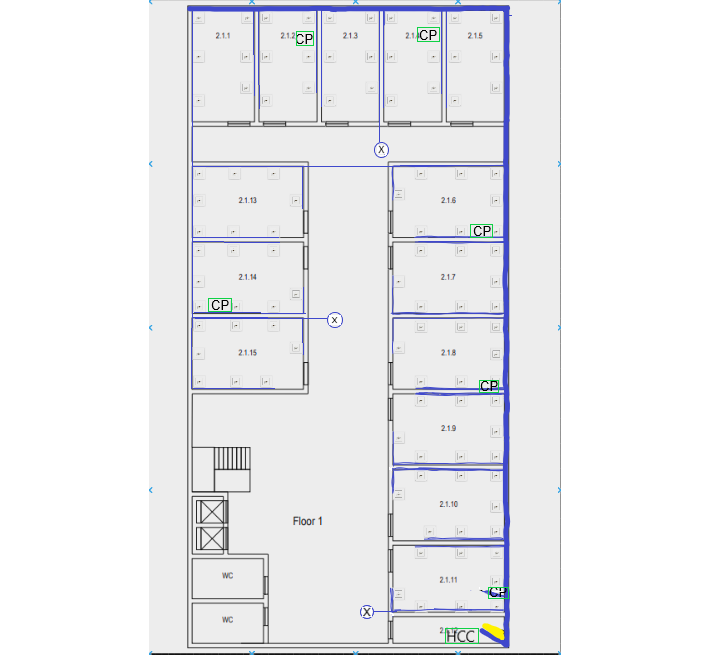
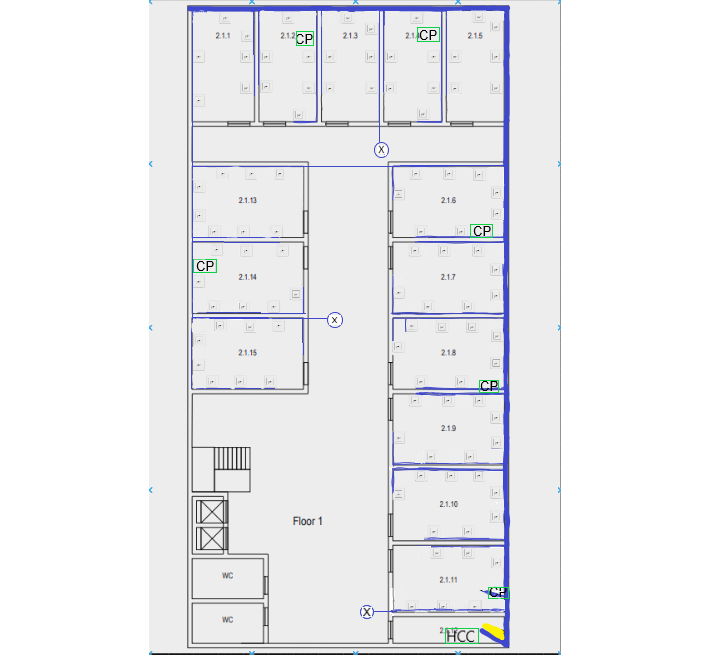
Sprint1

diff --git a/doc/sprint1/1220631/README.md b/doc/sprint1/1220631/README.md
@@ -1,0 +1,325 @@
+# RCOMP 2023-2024 Project - Sprint 1 - Member 1220631 Folder
+
+Within the subject of Redes de Computadores (RCOMP) each group member got a building to work in. In this report, let's work on the cable structured of the Building 2.
+
+## Standards
+
+### Acess Point
+
+In order to provide a WI-FI network on every floor, we have decided to implement **Access Points** that individually cover **30 meters diameter**.
+
+### Cables
+
+As defined by the team in the Planning section:
+
+- Copper cables will be **Category 7 (CAT7) Copper Cables**.
+- Fiber cables will be **Monomode Fiber Cables**.
+
+The maximum distance of the Copper cables is **90** meters.
+
+### Network Outlets
+
+For each **10** square meters there should be installed **2** Network Outlets. The distance should not exceed **3** meters.
+
+### Patch Panels
+
+Since all connectors and patch panels should meet the cable specifications and we decided to use CAT7 Cables, all of them are also **CAT7**.
+Fiber patch panels to Monomode Optical Fiber should be compatible as well.
+
+### Cross-Connected
+
+Cables connecting an **Intermediate Cross-Connect (ICC)** to a **Horizontal Cross-Connect (HCC)** are limited to **500 meters** long, and cables connecting the **Main Cross-Connect (MCC)** to an **ICC** are limited to **1500 meters** long.
+
+### Copper Patch-Cords
+
+Patch cords go from **0.5 to 5 meters** long. They will be provided to end-users to connect their equipment to outlets.
+
+### Telecommunication Enclosures
+
+Having the number of patch panels we can know the size of our Telecommunication Enclosure. Typical 24 ports CAT7 copper patch panels take **1U**.
+
+**1U** is also added for each corresponding expected switch. And at the end, **100% oversize** must be added.
+
+### Consolidation Point
+
+Since we are using a large set of points of sale, a Consolidation Point must be placed to aggregate a bunch of outlets. In this building, it will be used the **24 ports** Consolidation Points.
+
+## Measurements
+
+
+### Building 2
+
+#### Floor 0
+
+![](Building_2_Floor_0_Measurements.xlsx)
+
+#### Floor 1
+
+![](Building_2_Floor_1_Measurements.xlsx)
+
+## No. of outlets
+
+### Building 1
+
+#### Floor 0
+
+| Room   | Area (m^2) | No. of outlets |
+|--------|------------|----------------|
+| 2.0.1  | 19.23      | 4              |
+| 2.0.2  | 19.23      | 4              |
+| 2.0.3  | 19.23      | 4              |
+| 2.0.4  | 19.23      | 4              |
+| 2.0.5  | 40.8       | 10             |
+| 2.0.6  | 108.3      | 5              |
+| 2.0.7  | 108.3      | 5              |
+| 2.0.8  | 29.17      | 6              |
+| 2.0.9  | 29.17      | 6              |
+| 2.0.10 | 8.65       | 4              |
+| 2.0.11 | 6.76       | 0              |
+
+
+#### Floor 1
+
+| Room   | Area (m^2) | No. of outlets |
+|--------|------------|----------------|
+| 2.1.1  | 26.91      | 6              |
+| 2.1.2  | 26.91      | 6              |
+| 2.1.3  | 26.91      | 6              |
+| 2.1.4  | 26.91      | 6              |
+| 2.1.5  | 26.91      | 6              |
+| 2.1.6  | 31.83      | 8              |
+| 2.1.7  | 31.83      | 8              |
+| 2.1.8  | 31.83      | 8              |
+| 2.1.9  | 31.83      | 8              |
+| 2.1.10 | 31.83      | 8              |
+| 2.1.11 | 31.83      | 6              |
+| 2.1.12 | 13.84      | 0              |
+| 2.1.13 | 31.83      | 8              |
+| 2.1.14 | 31.83      | 8              |
+| 2.1.15 | 31.83      | 8              |
+
+## Total of outlets
+
+### Building 2
+
+#### Floor 0
+
+-   **52 + 2 (access points)**
+
+#### Floor 1
+
+-   **100 + 3 (access points)**
+
+## Cabling
+
+
+### Building 2
+
+#### Floor 0
+
+![](Building_2_Floor_0_Cabling.png)
+
+#### Floor 1
+
+![](Building_2_Floor_1_Cabling.png)
+
+## Cable Measurements
+
+### Building 2
+
+#### Floor 0
+
+##### CAT-7 Copper Cables
+
+The order of outlets in relation to cable structure is: ⬇ - ⬅ - ➡ -  ⬆
+
+**- **From HCC to CP(room 2.0.9):** 5,4 m
+- **From CP(room 2.0.9) to Outlets 2.0.10:** 10,8 m + 8,2 m + 7,8 m + 5,2 m = 32 m
+- **From CP(room 2.0.9) to Outlets 2.0.9:** 7,2 m + 4,2 m + 1,8 m + 10,8 m + 8,6 m + 5,2 m = 37,8 m
+- **From CP(room 2.0.9) to Outlets 2.0.8:** 17,4 m + 15,2 m + 12 m + 15,4 m + 12,2 m + 9,8 m = 82 m
+
+- **From HCC to CP(room 2.0.7):** 13,8 m
+- **From CP(room 2.0.7) to AP Outlet (left 2.0.8):** 8,6 m
+- **From CP(room 2.0.7) to Outlets 2.0.7:** 2,4 m + 4,4 m + 6,4 m + 8,4 m + 10,4 m = 32 m
+- **From CP(room 2.0.7) to Outlets 2.0.6:** 13,2 m + 15,2 m + 17,2 m + 19,2 m + 21,2 m = 86 m
+- **From CP(room 2.0.7) to AP Outlet (2.0.6):** 32 m
+
+- **From HCC to CP(room 2.0.5):** 34,6 m
+- **From CP(room 2.0.5) to Outlets 2.0.10:** 1,6 m + 6,4 m + 3,2 m + 10,2 m + 8,4 m + 5,2 m + 16,4 m + 7,8 m + 13,2 m + 11 m = 83,4 m
+- **From CP(room 2.0.5) to Outlets 2.0.4:** 26,8 m + 20,6 m + 23,8 m + 20 m = 91,2 m
+
+- **From HCC to CP(room 2.0.3):** 55,8 m
+- **From CP(room 2.0.3) to Outlets 2.0.3:** 4,4 m + 1,4 m + 5,8 m + 3,2 m = 14,8 m
+- **From CP(room 2.0.3) to Outlets 2.0.2:** 12,4 m + 6,6 m + 9,6 m + 5,8 m = 34,4 m
+- **From CP(room 2.0.3) to Outlets 2.0.1:** 13,6 m + 10,6 m + 13,4 m + 9,8 m = 47,4 m
+
+**Total Cable Length:** 691,2 m
+
+##### Monomode Optical Fiber Cables
+
+#### First Option ####
+- **From MCC to ICC (ICC to outside of building) + (Celing height MCC to floor) + (Building 1 to Building 2):** 12,8 m + 4 m + 40 m = 56,8 m
+- **From ICC to HCC:** 0,5 m
+- **From ICC to 1st Floor Cable Length:** 0,9 m + 4 m = 4,9 m
+
+#### Second Option ####
+- **From MCC to ICC (ICC to outside of building) + (Celing height MCC to floor) + (Building 1 to Building 2):** 12,8 m + 4 m + 663,3 m = 680,1 m
+
+**Total Cable Length:** 742,3 m
+
+
+#### Floor 1
+
+**The Horizontal Cross-Connect (HCC) and the Consolidation Point (CP) must be placed 1.5 m from the floor. The outlets must be rated 2.5 m from the removable dropped ceiling.**
+
+##### CAT-7 Copper Cables
+
+The order of outlets in relation to cable structure is: ⬇ - ⬅ - ➡ - ⬆
+
+- **From HCC to CP(room 2.1.11):** 1 m (up) + 2,6 m + 1 m (down) = 4,6 m
+- **From CP(room 2.1.11) to AP Outlet (left B.1.11):** 1 m (up) + 9,4 m + 2,5 m (down) = 12,9 m
+- **From CP(room 2.1.11) to Outlets 2.1.11:** (6 * 1 m (up) + 6 * 2,5 m (down)) + 7,8 m + 5,8 m + 3,6 m + 2,8 m + 7,8 m + 5,6 m = 54,4 m
+- **From CP(room 2.1.11) to Outlets 2.1.10:** (8 * 1 m (up) + 8 * 2,5 m (down)) + 8,6 m + 6,6 m + 5,8 m + 18,4 m + 7,8 m + 15 m + 13 m + 11 m = 114 m
+- **From CP(room 2.1.11) to Outlets 2.1.9:** (8 * 1 m (up) + 8 * 2,5 m (down)) + 13,6 m + 11,6 m + 18,2 m + 11 m + 13 m + 20,2 m + 18,2 m + 16,2 m = 150 m
+
+- **From HCC to CP(room 2.1.8):** 1 m (up) + 17,2 m + 1 m (down) = 19,2 m
+- **From CP(room 2.1.8) to Outlets 2.1.8:** (8 * 1 m (up) + 8 * 2,5 m (down)) + 3,8 m + 1,8 m + 2,8 m + 15,2 m + 4,8 m + 11,8 m + 9,8 m + 7,8 m = 85,6 m
+- **From CP(room 2.1.8) to Outlets 2.1.7:** (8 * 1 m (up) + 8 * 2,5 m (down)) + 10,6 m + 8,6 m + 12,4 m + 7,8 m + 9,8 m + 17 m + 15 m + 13 m = 122,2 m
+
+- **From HCC to CP(room 2.1.6):** 1 m (up) + 27,6 m + 1 m (down) = 29,6 m
+- **From CP(room 2.1.6) to Outlets 2.1.6:** (8 * 1 m (up) + 8 * 2,5 m (down)) + 3,8 m + 1,6 m + 2,8 m + 15,2 m + 4,8 m + 11,8 m + 9,8 m + 7,8 m = 85,6 m
+- **From CP(room 2.1.6) to Outlets 2.1.5:** (6 * 1 m (up) + 6 * 2,5 m (down)) + 25,8 m + 10,8 m + 23,4 m + 13,2 m + 15,4 m + 18,4 m = 128 m
+
+- **From HCC to CP(room 2.1.4):** 1 m (up) + 46,4 m + 1 m (down) = 48,4 m
+- **From CP(room 2.1.4) to Outlets 2.1.4:** (6 * 1 m (up) + 6 * 2,5 m (down)) + 7,2 m + 10,2 m + 4,4 m + 7,8 m + 2 m + 2,8 m = 55,4 m
+- **From CP(room 2.1.4) to Outlets 2.1.3:** (6 * 1 m (up) + 6 * 2,5 m (down)) + 14,4 m + 10,8 m + 12,2 m + 8,4 m + 6,2 m + 7 m = 80 m
+- **From CP(room 2.1.4) to AP Outlet (down 2.1.3):** 1 m (up) + 12,8 m + 2,5 m (down) = 16,3 m
+
+- **From HCC to CP(room 2.1.2):** 1 m (up) + 54,8 m + 1 m (down) = 56,8 m
+- **From CP(room 2.1.2) to Outlets 2.1.2:** (6 * 1 m (up) + 6 * 2,5 m (down)) + 7,2 m + 10,2 m + 4,4 m + 7,8 m + 2 m + 2,8 m = 55,4 m
+- **From CP(room 2.1.6) to Outlets 2.1.1:** (6 * 1 m (up) + 6 * 2,5 m (down)) + 14,8 m + 10,8 m + 12,4 m + 8,4 m + 6,2 m + 7 m = 80,6 m
+- **From CP(room 2.1.6) to Outlets 2.1.13:** (8 * 1 m (up) + 8 * 2,5 m (down)) + 26,2 m + 28,2 m + 30,2 m + 22,8 m + 20,8 m + 21,6 m + 23,6 m + 25,6 m = 227 m
+
+- **From HCC to CP(room 2.1.14):** 1 m (up) + 79 m + 1 m (down) = 57,4 m
+- **From CP(room 2.1.14) to Outlets 2.1.14:** (8 * 1 m (up) + 8 * 2,5 m (down)) + 5 m + 7 m + 9 m + 1,6 m + 11,8 m + 2,8 m + 4,8 m + 6,8 m = 76,8 m
+- **From CP(room 2.1.14) to Outlets 2.1.15:** (8 * 1 m (up) + 8 * 2,5 m (down)) + 10 m + 12 m + 14 m + 6,8 m + 4,8 m + 5,6 m + 7,6 m + 9,6 m = 98,4 m
+- **From CP(room 2.1.14) to AP Outlet (right 2.1.15):** 1 m (up) + 11,2 m + 2,5 m (down) = 14,7 m
+
+**Total Cable Length:** 1673,3 m
+
+***Monomode Fiber Cable:***
+
+- **From floor cable passageway to HCC:** 1,5 m (to HCC) + 0,9 m = 2,4 m
+- **Total Cable Length:** 2,4 m
+
+
+##### Monomode Optical Fiber Cables
+
+- From **Floor 0** to **MCC** -> **8,0 m**
+- From **MCC** to **ICC** -> **1,4 m**
+- From **ICC** to **HCC** -> **1,4 m**
+
+## Patch-Cords (0.5 m)
+
+### Building 2
+
+#### Floor 0
+
+-   **54 + 1 (ICC to HCC)**
+
+#### Floor 1
+
+-   **103**
+
+## User-Cords (5 m)
+
+### Building 2
+
+#### Floor 0
+
+-   **54**
+
+#### Floor 1
+
+- **103**
+
+## Patch Panels
+
+### Building 2
+
+#### Floor 0
+
+54 outlets are available on this floor, so a minimum of **3 24 patch panels** (or 5 12 patch panels) are needed. To distribute the patch panels as effective as possible, the following was placed:
+
+- 1 patch panel of 12 ports (HCC);
+- 1 patch panel of 12 ports (ICC);
+- 1 patch panel of 24 ports (room 2.0.9)
+- 1 patch panel of 24 ports (room 2.0.7)
+- 1 patch panel of 24 ports (room 2.0.5)
+- 1 patch panel of 24 ports (room 2.0.3)
+
+#### Total: **2 patch panels of 12 ports** and **4 patch panels of 24 ports**
+
+#### Floor 1
+
+103 outlets are available on this floor, so a minimum of **5 24-port patch panels** (or 6 12-port patch panels) are needed. To distribute the patch panels as efficient as possible, the following was placed:
+
+
+- 1 patch panel of 12 ports (HCC);
+- 1 patch panel of 24 ports (room 2.1.11)
+- 1 patch panel of 24 ports (room 2.1.8)
+- 1 patch panel of 24 ports (room 2.1.6)
+- 1 patch panel of 24 ports (room 2.1.4)
+- 1 patch panel of 24 ports (room 2.1.2)
+- 1 patch panel of 24 ports (room 2.1.14)
+
+#### Total: **1 patch panels of 12 ports** and **6 patch panels of 24 ports**
+
+
+## **Racks** ##
+
+### ***Floor 0:*** ###
+
+For the **HCC** and **ICC:**
+
+- **1U** for 1 copper patch panels of 12 ports (HCC);
+- **1U** for 1 fiber patch panel of 12 ports (ICC);
+- **1U** expected corresponding switches;
+- **3U** an additional 100% over dimensioning.
+#### **Total**: 6U
+
+
+For the four **CP (24 ports):**
+
+- **1U** for 1 copper patch panels of 24 ports;
+- **1U** expected corresponding switch;
+- **2U** an additional 100% over dimensioning.
+#### **Total**: 4U -  use one of the available telecommunications enclosures (6U).
+
+
+
+### ***Floor 1*** ###
+
+For the **HCC:**
+
+- **1U** for 1 copper patch panels of 12 ports each (HCC);
+- **1U** expected corresponding switches;
+- **2U** an additional 100% over dimensioning.
+#### **Total**: 4U - use one of the available telecommunications enclosures (6U).
+
+For the six **CP (24 ports):**
+
+- **1U** for 1 copper patch panels of 24 ports;
+- **1U** expected corresponding switch;
+- **2U** an additional 100% over dimensioning.
+#### **Total**: 4U - use one of the available telecommunications enclosures (6U).
+
+
+
+## Full Inventory
+
+| Floor     | No. of outlets | CAT-7 Copper Cables (m) | Monomode Fiber Cables (m) | Patch-Cords (0,5 m) | User-Cords (5 m) | Patch panels (12) | Patch panels (24) | Telecommunication Enclosures | AP | CP (24) | CP (12) | Switches |
+|-----------|----------------|-------------------------|---------------------------|---------------------|------------------|-------------------|-------------------|------------------------------|----|---------|---------|----------|
+| 0         | 54             | 691.2                   | 742.3                     | 55                  | 54               | 2                 | 4                 | 5                            | 2  | 4       | 0       | 5        |
+| 1         | 103            | 1673.3                  | 2.4                       | 103                 | 103              | 1                 | 6                 | 7                            | 3  | 6       | 0       | 7        |
+| **Total** | 157            | 2364.5                  | 744.7                     | 158                 | 157              | 3                 | 10                | 12                           | 5  | 10      | 0       | 12       |
